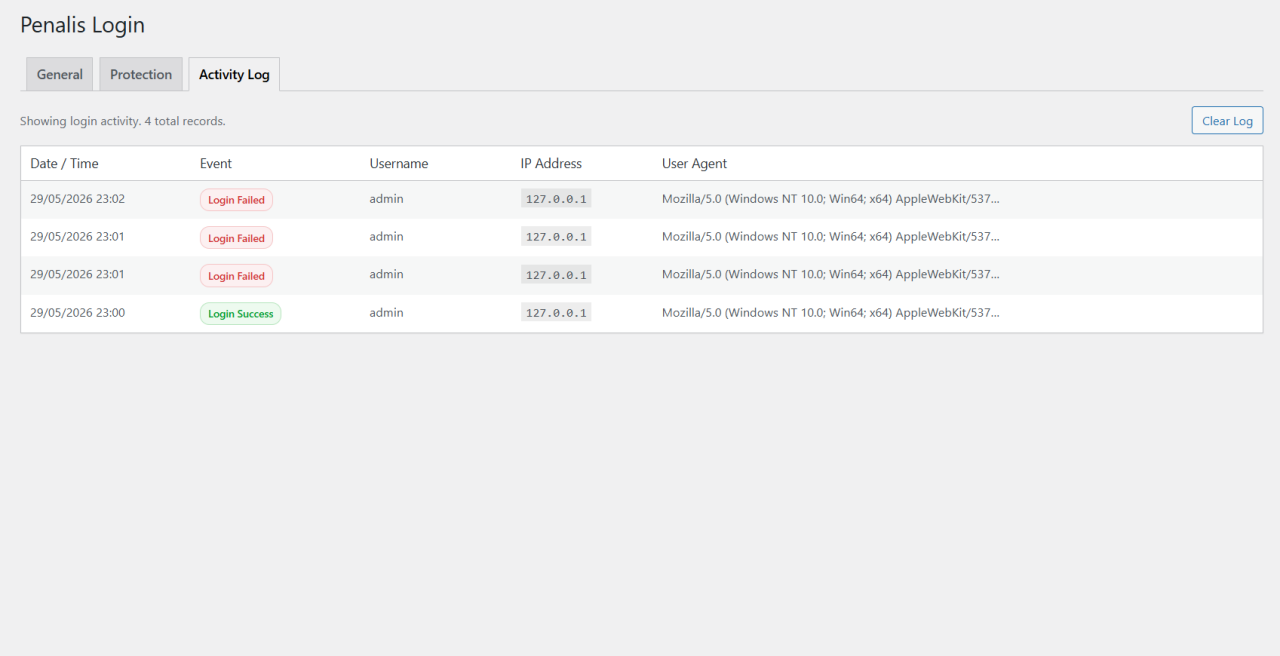
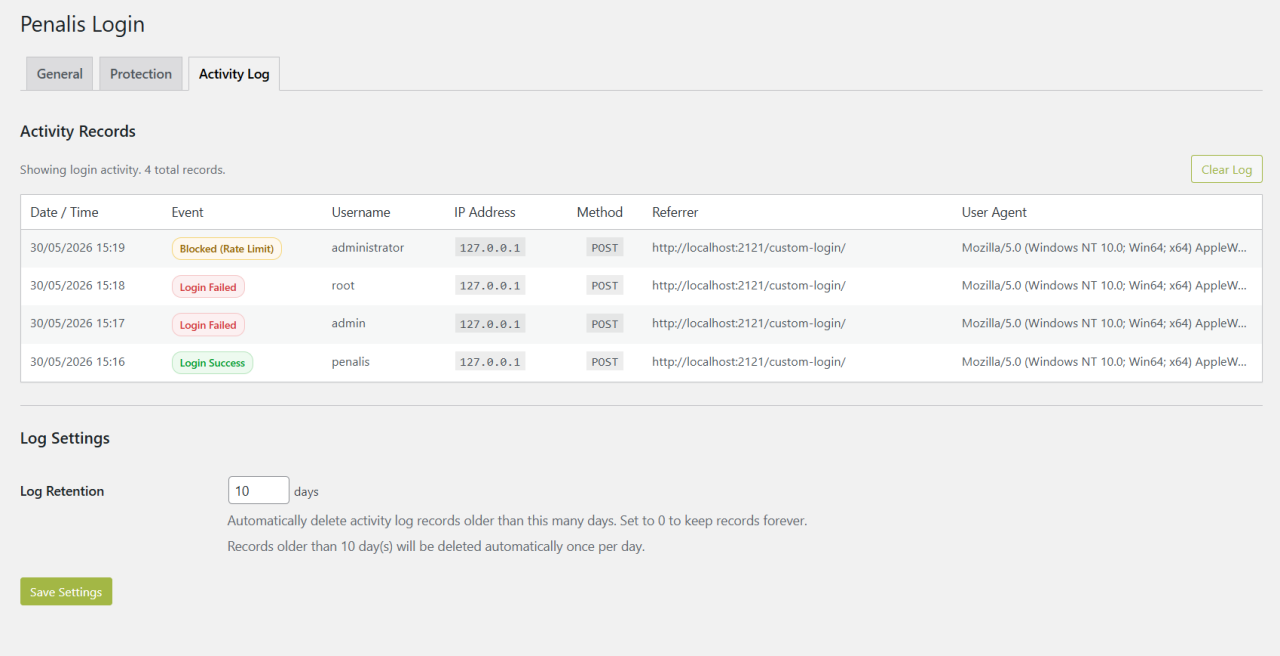
docs(readme): update activity log documentation and screenshots
- Update activity log feature description to include HTTP method and referrer tracking
- Add log retention configuration details with default 30-day setting
- Document automatic daily cron pruning of activity logs
- Add ActivityPruner.php to architecture diagram
- Update Activity Log tab description to list new Method and Referrer columns
- Add Log Settings table documenting retention configuration and defaults
- Update activity log screenshot to reflect current UI

diff --git a/README.md b/README.md
@@ -22,8 +22,9 @@ This plugin was originally developed for internal use at [Penalis](https://penal
 - **Trusted Proxies** — configure trusted reverse proxy IPs (Cloudflare, Nginx) so security features use the real visitor IP instead of the proxy IP
 
 ### Activity Log (always active)
-- Records every login attempt (success, failure, blocked by rate limit, blocked by IP rule) with IP address, username, user agent, and timestamp
+- Records every login attempt (success, failure, blocked by rate limit, blocked by IP rule) with IP address, username, HTTP method, referrer, user agent, and timestamp
 - Viewable in the **Activity Log** tab; supports pagination and one-click log clearing
+- Configurable log retention — automatically prune records older than N days via daily cron (0 = keep forever, default: 30 days)
 
 ## Requirements
 
@@ -52,6 +53,7 @@ penalis-login/
 │   ├── UrlFilter.php               # login_url / logout_url / etc. filters
 │   ├── SecurityHandler.php         # Block wp-login.php, anti-lockout
 │   ├── ActivityLogger.php          # Login event recorder
+│   ├── ActivityPruner.php          # Daily cron job for log retention
 │   ├── LoginAttemptLimiter.php     # Rate limiting / lockout enforcement
 │   ├── LoginNotifier.php           # Email alert dispatcher
 │   ├── IpAccessControl.php         # IP blocklist / allowlist enforcement
@@ -134,7 +136,7 @@ When enabled, `CF-Connecting-IP`, `X-Real-IP`, and `X-Forwarded-For` headers are
 
 ### Activity Log Tab
 
-Read-only view of all recorded login events. Columns: Date/Time, Event, Username, IP Address, User Agent. Supports pagination (50 records per page) and a "Clear Log" button.
+Read-only view of all recorded login events. Columns: Date/Time, Event, Username, IP Address, Method, Referrer, User Agent. Supports pagination (50 records per page) and a "Clear Log" button.
 
 ![Activity Log Tab](.github/screenshots/penalis-login-activity-log.png)
 
@@ -143,6 +145,14 @@ Event types:
 - **Login Failed** — wrong password or unknown username
 - **Blocked (Rate Limit)** — request blocked by the Login Attempt Limiter
 - **Blocked (IP Rule)** — request blocked by IP Access Control
+
+#### Log Settings
+
+| Setting | Description | Default |
+|---|---|---|
+| Log Retention | Delete records older than this many days (0 = keep forever) | 30 days |
+
+Records are pruned automatically once per day via WordPress cron.
 
 ## Architecture Notes
 
